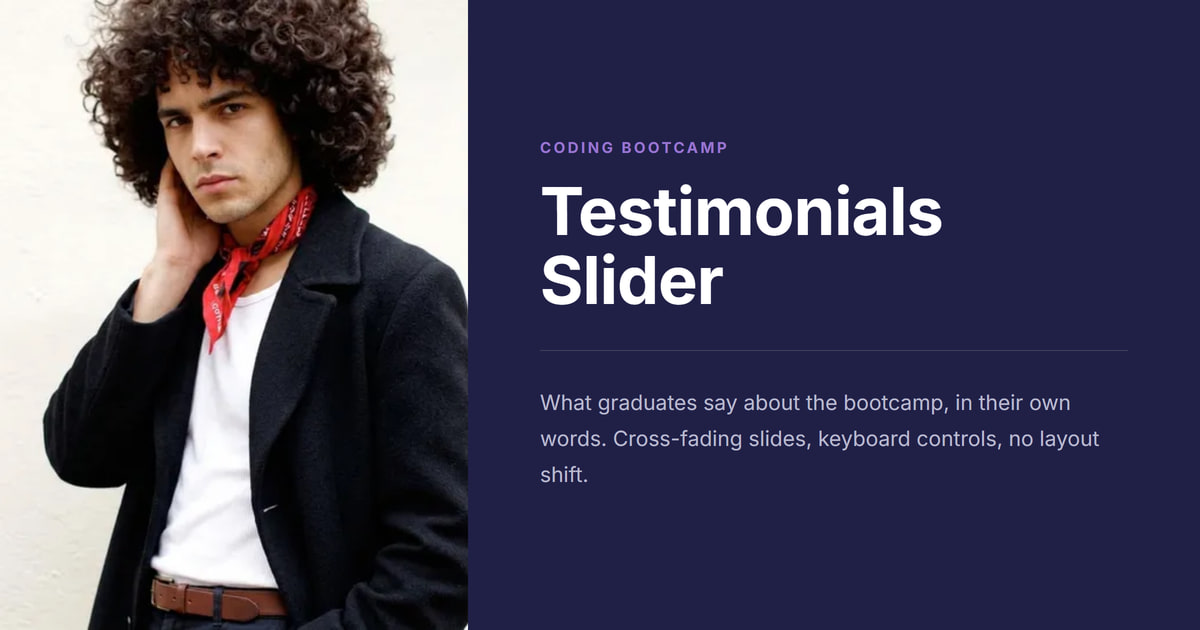
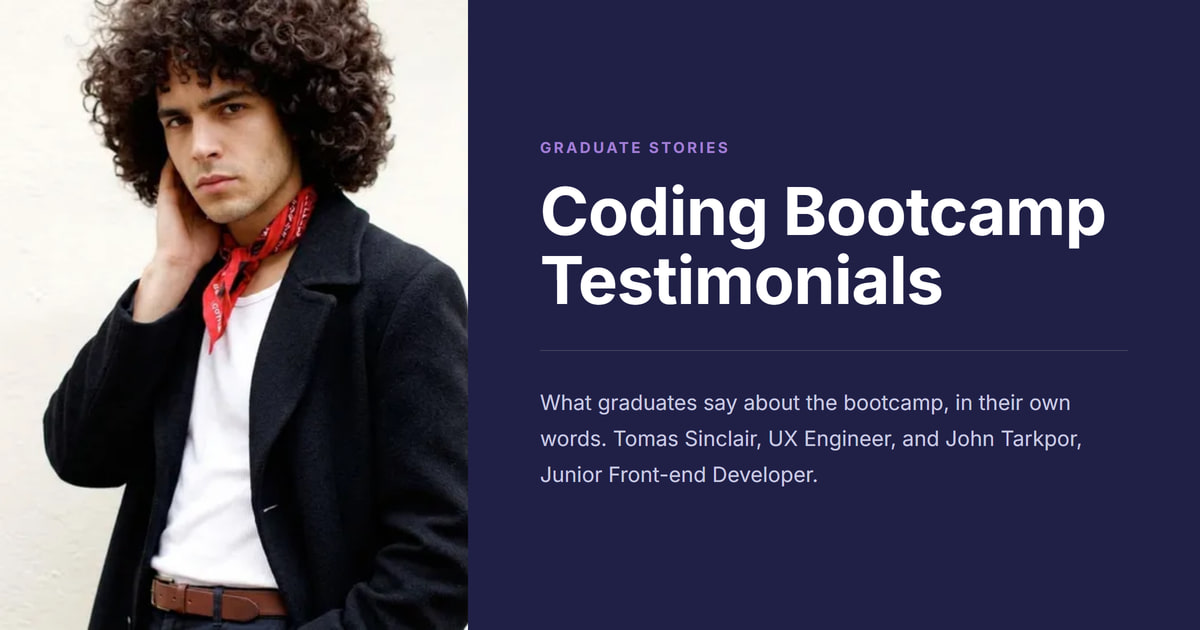
fix: update title and siteName for improved clarity in metadata

Changed region(s): [[0.4317, 0.2714, 0.925, 0.4825], [0.4317, 0.6635, 0.925, 0.7841], [0.4625, 0.2111, 0.6167, 0.2413]]

diff --git a/src/app/layout.tsx b/src/app/layout.tsx
@@ -13,7 +13,8 @@ const inter = Inter({
 const SITE_URL =
   "https://coding-bootcamp-testimonials-slider.abdelrhman-ahmed8881.workers.dev";
 
-const title = "Coding bootcamp testimonials";
+const name = "Coding Bootcamp Testimonials";
+const title = `${name} | Graduate stories`;
 const description =
   "What graduates say about the bootcamp, in their own words. Tomas Sinclair, UX Engineer, and John Tarkpor, Junior Front-end Developer.";
 
@@ -33,7 +34,7 @@ export const metadata: Metadata = {
     title,
     description,
     url: "/",
-    siteName: title,
+    siteName: name,
     locale: "en_US",
     type: "website",
     images: [shareImage],
